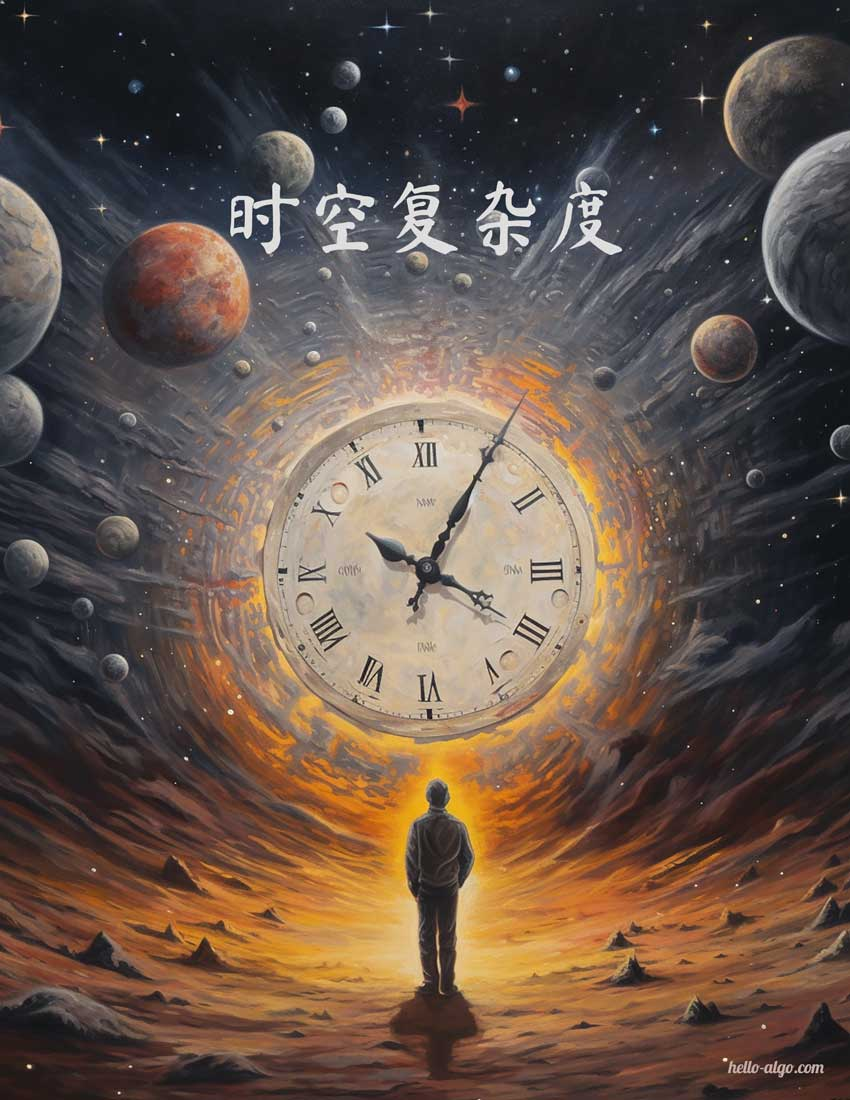
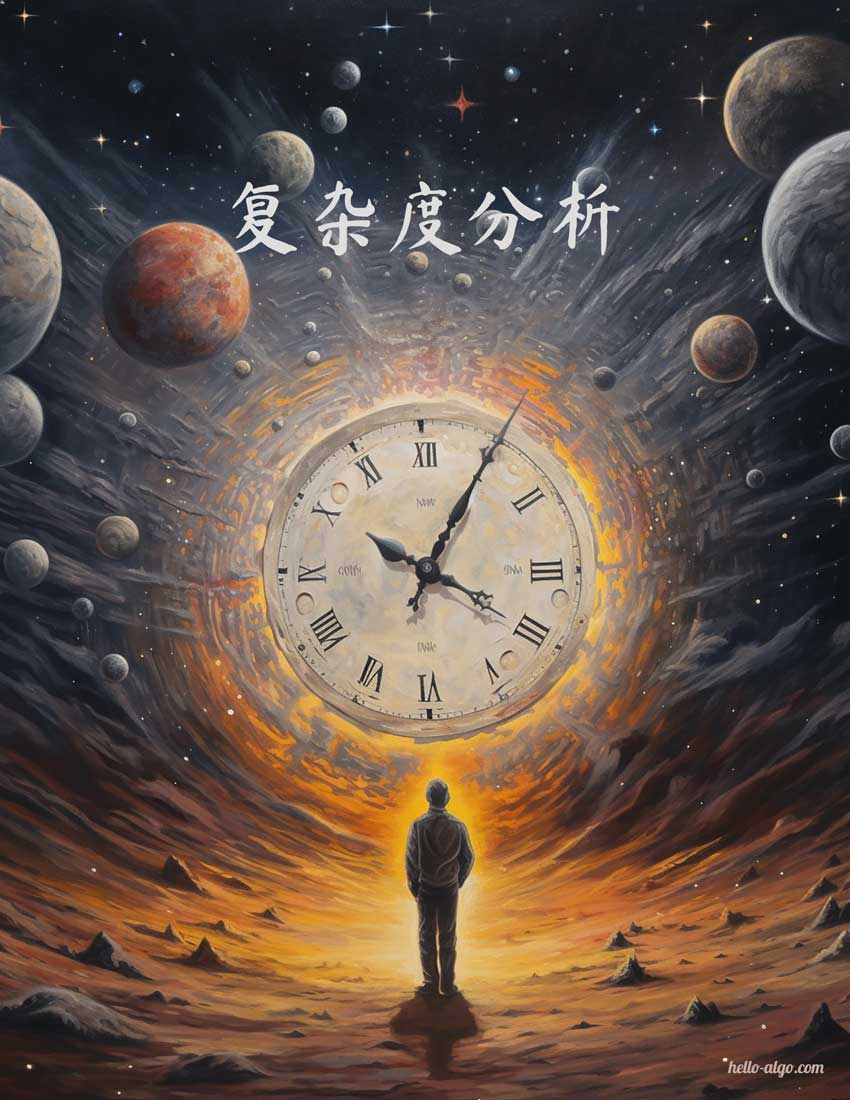
Update the chapter of introduction and complexity anylysis.

Changed region(s): [[0.3671, 0.1545, 0.7341, 0.2473], [0.2447, 0.1545, 0.3365, 0.2473]]

diff --git a/docs/chapter_computational_complexity/summary.md b/docs/chapter_computational_complexity/summary.md
@@ -11,7 +11,7 @@
 - 时间复杂度用于衡量算法运行时间随数据量增长的趋势，可以有效评估算法效率，但在某些情况下可能失效，如在输入的数据量较小或时间复杂度相同时，无法精确对比算法效率的优劣。
 - 最差时间复杂度使用大 $O$ 符号表示，对应函数渐近上界，反映当 $n$ 趋向正无穷时，操作数量 $T(n)$ 的增长级别。
 - 推算时间复杂度分为两步，首先统计操作数量，然后判断渐近上界。
-- 常见时间复杂度从小到大排列有 $O(1)$、$O(\log n)$、$O(n)$、$O(n \log n)$、$O(n^2)$、$O(2^n)$、$O(n!)$ 等。
+- 常见时间复杂度从小到大排列有 $O(1)$、$O(\log n)$、$O(n)$、$O(n \log n)$、$O(n^2)$、$O(2^n)$ 和 $O(n!)$ 等。
 - 某些算法的时间复杂度非固定，而是与输入数据的分布有关。时间复杂度分为最差、最佳、平均时间复杂度，最佳时间复杂度几乎不用，因为输入数据一般需要满足严格条件才能达到最佳情况。
 - 平均时间复杂度反映算法在随机数据输入下的运行效率，最接近实际应用中的算法性能。计算平均时间复杂度需要统计输入数据分布以及综合后的数学期望。
 
@@ -20,7 +20,7 @@
 - 空间复杂度的作用类似于时间复杂度，用于衡量算法占用空间随数据量增长的趋势。
 - 算法运行过程中的相关内存空间可分为输入空间、暂存空间、输出空间。通常情况下，输入空间不计入空间复杂度计算。暂存空间可分为指令空间、数据空间、栈帧空间，其中栈帧空间通常仅在递归函数中影响空间复杂度。
 - 我们通常只关注最差空间复杂度，即统计算法在最差输入数据和最差运行时间点下的空间复杂度。
-- 常见空间复杂度从小到大排列有 $O(1)$、$O(\log n)$、$O(n)$、$O(n^2)$、$O(2^n)$ 等。
+- 常见空间复杂度从小到大排列有 $O(1)$、$O(\log n)$、$O(n)$、$O(n^2)$ 和 $O(2^n)$ 等。
 
 ## Q & A
 
@@ -38,7 +38,7 @@
     - Java 和 C# 是面向对象的编程语言，代码块（方法）通常都是作为某个类的一部分。静态方法的行为类似于函数，因为它被绑定在类上，不能访问特定的实例变量。
     - C++ 和 Python 既支持过程式编程（函数），也支持面向对象编程（方法）。
 
-!!! question "图“空间复杂度的常见类型”反映的是否是占用空间的绝对大小？"
+!!! question "图“常见的空间复杂度类型”反映的是否是占用空间的绝对大小？"
 
     不是，该图片展示的是空间复杂度，其反映的是增长趋势，而不是占用空间的绝对大小。
     

diff --git a/docs/chapter_computational_complexity/performance_evaluation.md b/docs/chapter_computational_complexity/performance_evaluation.md
@@ -5,7 +5,7 @@
 1. **找到问题解法**：算法需要在规定的输入范围内，可靠地求得问题的正确解。
 2. **寻求最优解法**：同一个问题可能存在多种解法，我们希望找到尽可能高效的算法。
 
-也就是说，在能够解决问题的前提下，算法效率是衡量算法优劣的主要评价指标，它包括以下两个维度。
+也就是说，在能够解决问题的前提下，算法效率已成为衡量算法优劣的主要评价指标，它包括以下两个维度。
 
 - **时间效率**：算法运行速度的快慢。
 - **空间效率**：算法占用内存空间的大小。
@@ -20,7 +20,7 @@
 
 一方面，**难以排除测试环境的干扰因素**。硬件配置会影响算法的性能表现。比如在某台计算机中，算法 `A` 的运行时间比算法 `B` 短；但在另一台配置不同的计算机中，我们可能得到相反的测试结果。这意味着我们需要在各种机器上进行测试，统计平均效率，而这是不现实的。
 
-另一方面，**展开完整测试非常耗费资源**。随着输入数据量的变化，算法会表现出不同的效率。例如，在输入数据量较小时，算法 `A` 的运行时间比算法 `B` 更少；而输入数据量较大时，测试结果可能恰恰相反。因此，为了得到有说服力的结论，我们需要测试各种规模的输入数据，而这样需要耗费大量的计算资源。
+另一方面，**展开完整测试非常耗费资源**。随着输入数据量的变化，算法会表现出不同的效率。例如，在输入数据量较小时，算法 `A` 的运行时间比算法 `B` 更少；而输入数据量较大时，测试结果可能恰恰相反。因此，为了得到有说服力的结论，我们需要测试各种规模的输入数据，而这需要耗费大量的计算资源。
 
 ## 理论估算
 

diff --git a/docs/chapter_introduction/algorithms_are_everywhere.md b/docs/chapter_introduction/algorithms_are_everywhere.md
@@ -37,7 +37,7 @@
 
 上述整理扑克牌的方法本质上是“插入排序”算法，它在处理小型数据集时非常高效。许多编程语言的排序库函数中都存在插入排序的身影。
 
-**例三：货币找零**。假设我们在超市购买了 $69$ 元的商品，给收银员付了 $100$ 元，则收银员需要找我们 $31$ 元。他会很自然地完成下图所示的思考。
+**例三：货币找零**。假设我们在超市购买了 $69$ 元的商品，给了收银员 $100$ 元，则收银员需要找我们 $31$ 元。他会很自然地完成如下图所示的思考。
 
 1. 可选项是比 $31$ 元面值更小的货币，包括 $1$ 元、$5$ 元、$10$ 元、$20$ 元。
 2. 从可选项中拿出最大的 $20$ 元，剩余 $31 - 20 = 11$ 元。
@@ -53,4 +53,4 @@
 
 !!! tip
 
-    如果你对数据结构、算法、数组和二分查找等概念仍感到一知半解，请不要担心，继续往下阅读，这本书将引导你迈入数据结构与算法的知识殿堂。
+    如果你对数据结构、算法、数组和二分查找等概念仍感到一知半解，请继续往下阅读，这本书将引导你迈入数据结构与算法的知识殿堂。

diff --git a/docs/chapter_introduction/what_is_dsa.md b/docs/chapter_introduction/what_is_dsa.md
@@ -23,7 +23,7 @@
 
 ## 数据结构与算法的关系
 
-数据结构与算法高度相关、紧密结合，具体表现在下图所示的几个方面。
+如下图所示，数据结构与算法高度相关、紧密结合，具体表现以下三个方面。
 
 - 数据结构是算法的基石。数据结构为算法提供了结构化存储的数据，以及用于操作数据的方法。
 - 算法是数据结构发挥作用的舞台。数据结构本身仅存储数据信息，结合算法才能解决特定问题。

diff --git a/docs/chapter_computational_complexity/space_complexity.md b/docs/chapter_computational_complexity/space_complexity.md
@@ -663,10 +663,6 @@ $$
 
 ![常见的空间复杂度类型](space_complexity.assets/space_complexity_common_types.png)
 
-!!! tip
-
-    部分示例代码需要一些前置知识，包括数组、链表、二叉树、递归算法等。如果你遇到看不懂的地方，可以在学完后面章节后再来复习。
-
 ### 常数阶 $O(1)$
 
 常数阶常见于数量与输入数据大小 $n$ 无关的常量、变量、对象。

diff --git a/docs/chapter_computational_complexity/index.md b/docs/chapter_computational_complexity/index.md
@@ -1,8 +1,8 @@
-# 时空复杂度
+# 复杂度分析
 
 <div class="center-table" markdown>
 
-![时空复杂度](../assets/covers/chapter_complexity_analysis.jpg){ width="600" }
+![复杂度分析](../assets/covers/chapter_complexity_analysis.jpg){ width="600" }
 
 </div>
 
